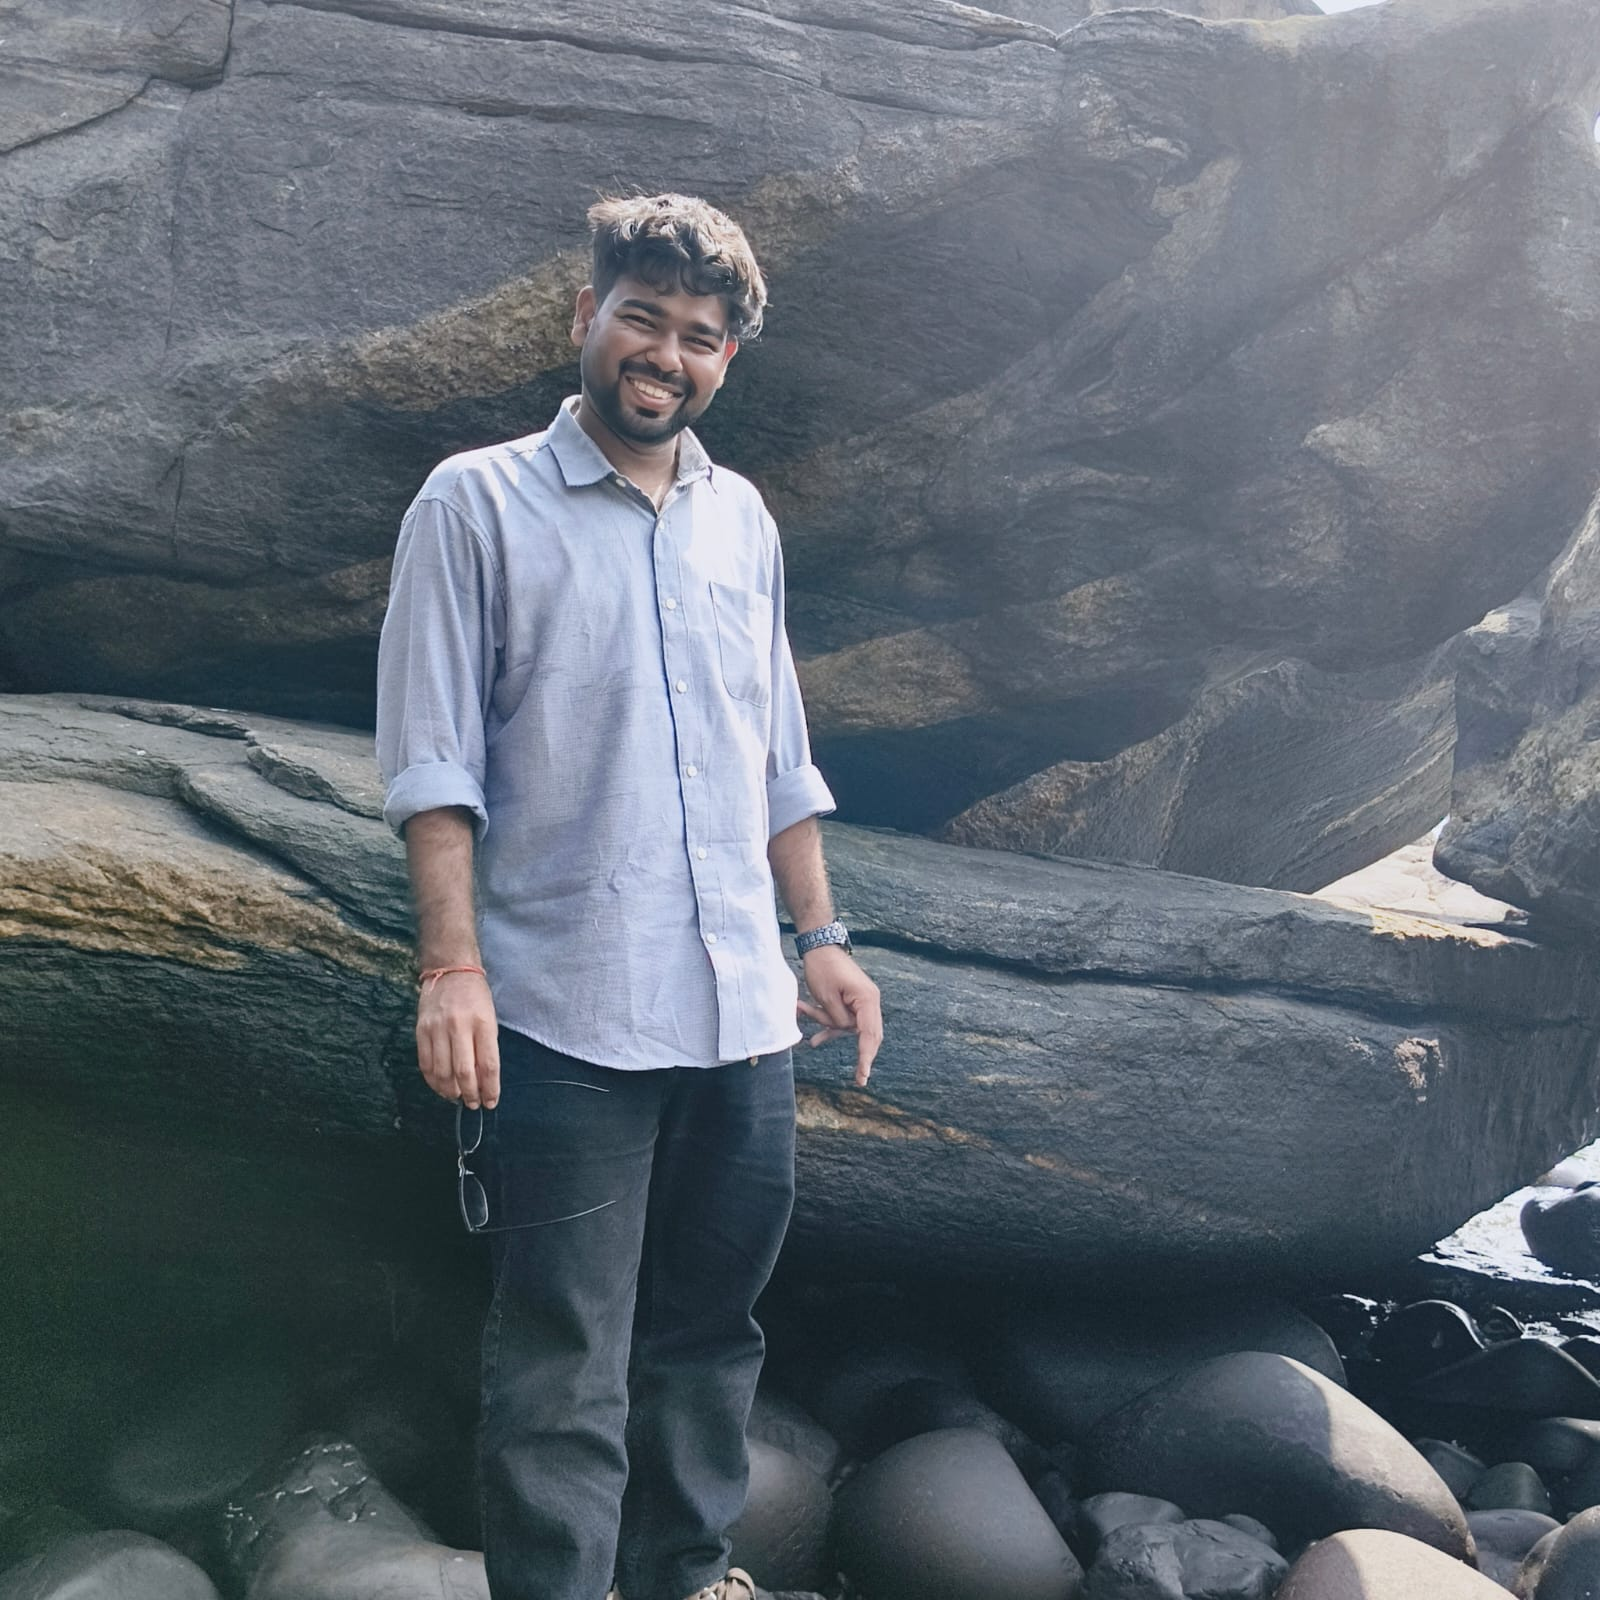
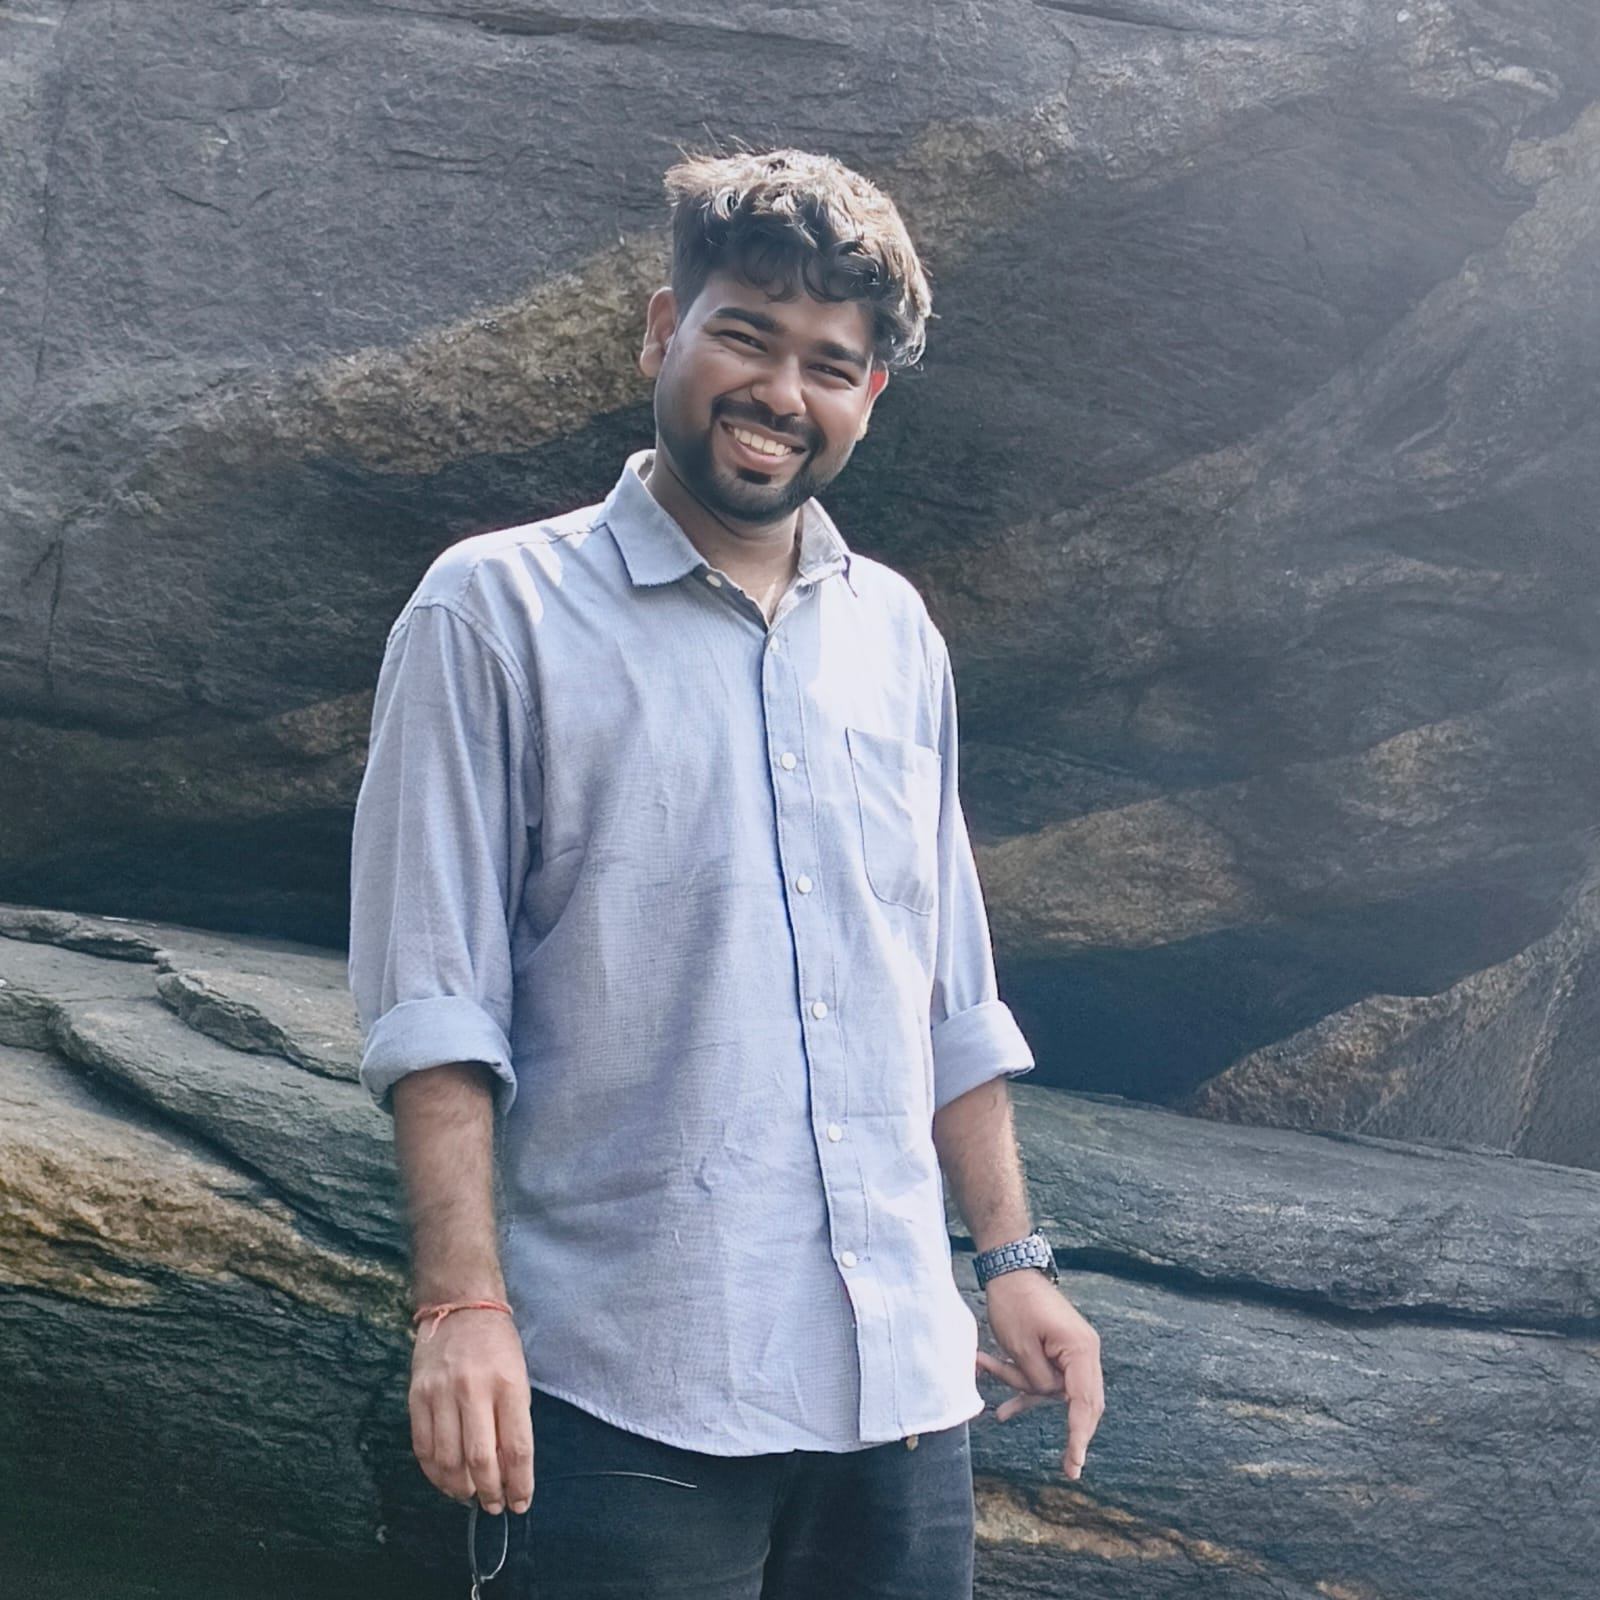
final

diff --git a/index.html b/index.html
@@ -14,14 +14,15 @@
 
 </div>
 <div class="paper image">
-  <p></p>
-  <img src="./luckyki2.jpeg" />
+  
+  <img src="./lucky2.jpeg" />
+  <p>mandal aabhari aahe !!</p>
 </div>
   
 <div class="paper image">
-  <p> and I fallen in</p>
-    <p>Love with You 😍 </p>
-   <img src="./luckyki.jpeg" />
+  <p>this is you </p>
+    <p>in my eyes  </p>
+   <img src="./Gemini_Generated_Image_8jiu998jiu998jiu.png" />
 </div>
 
 
@@ -42,7 +43,7 @@
 
 <div class="paper">
 <p class="p1">Thank you for Today</p>
-  <p class="p1">badbade<span style="color: red !important;">❤</span></p>
+  <p class="p1">chasmish<span style="color: red !important;">❤</span></p>
 </div>
 
 <div class="paper">
